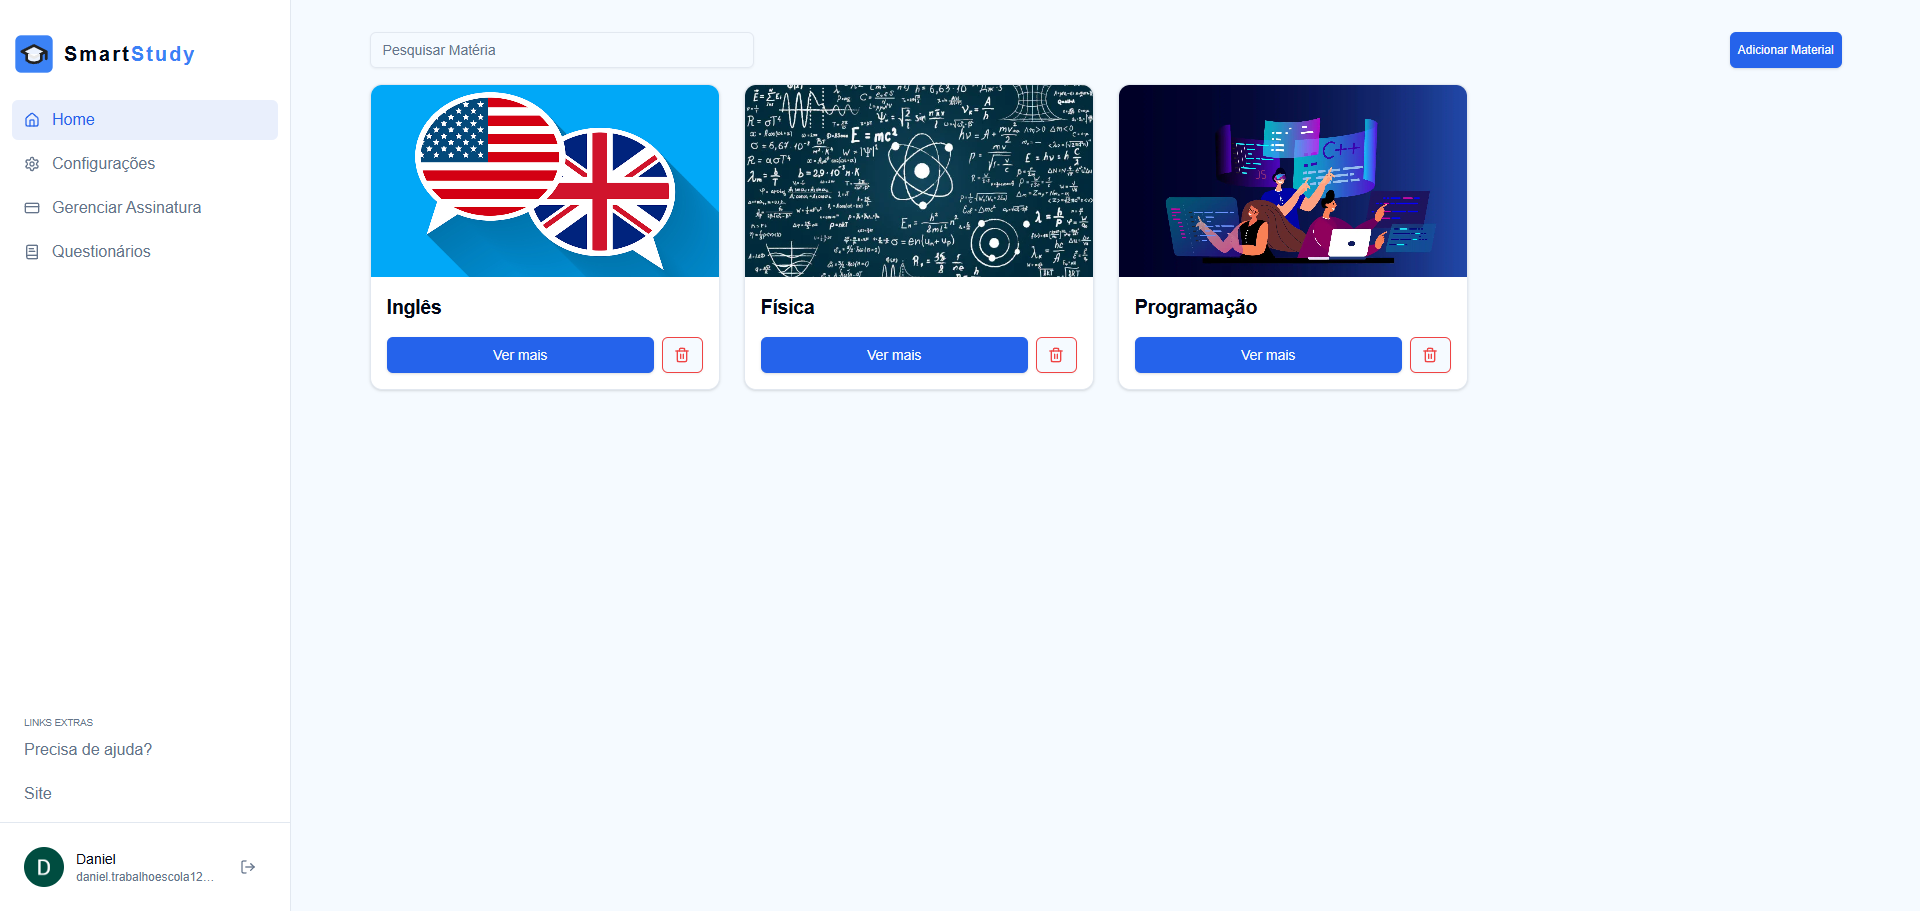
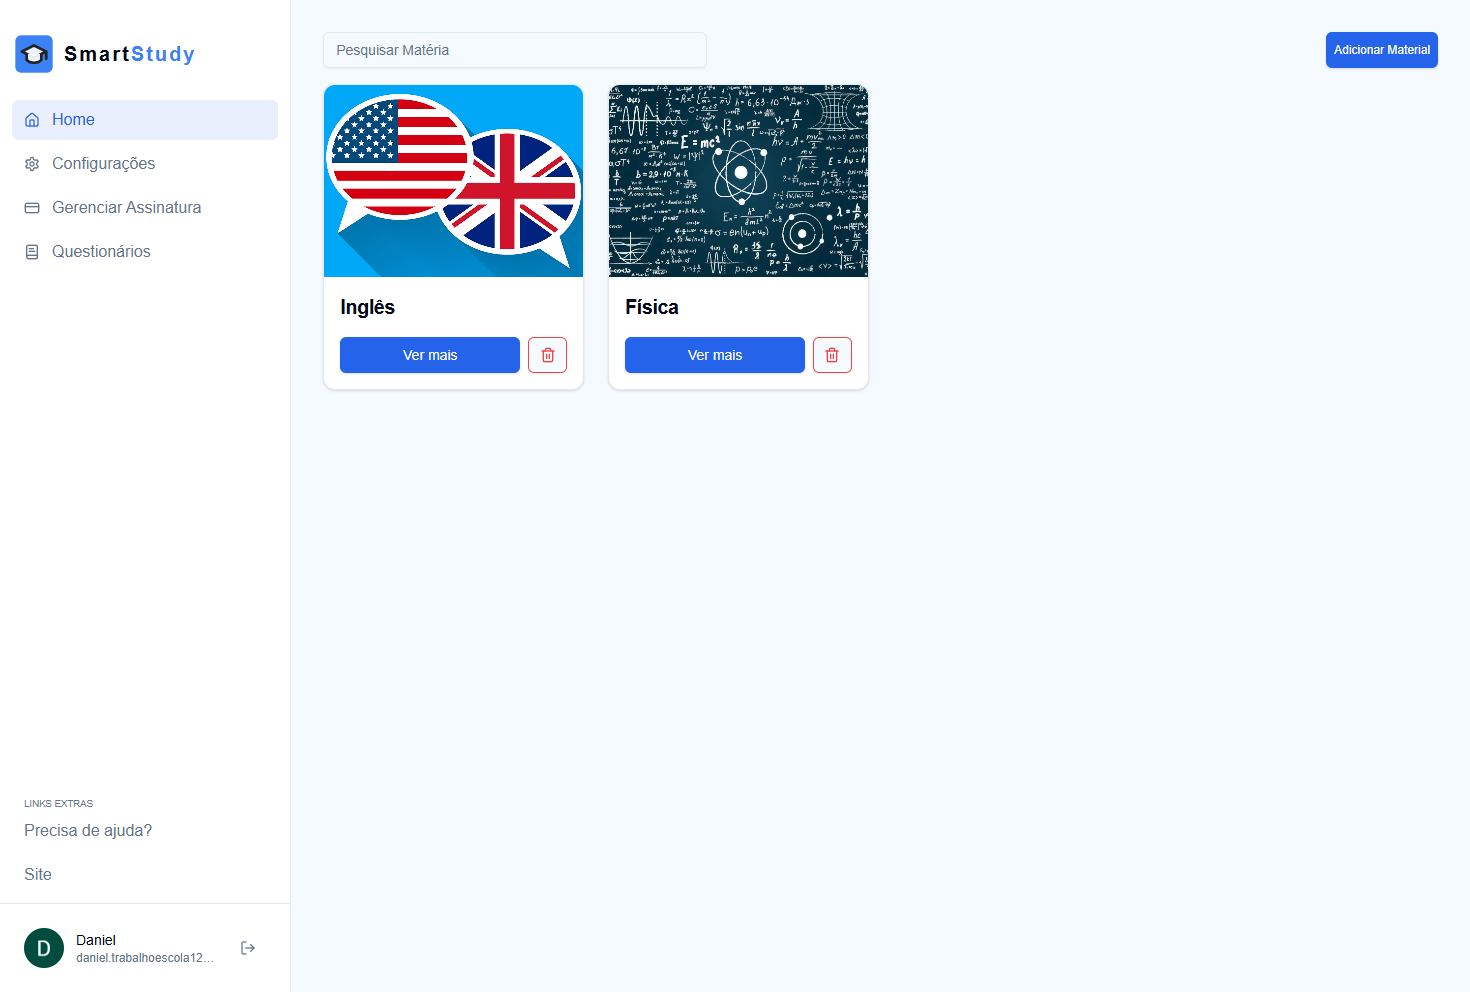
fix: ajustes de estilo para mobile

diff --git a/src/app/page.tsx b/src/app/page.tsx
@@ -17,8 +17,8 @@ export default async function Home() {
     <div className="relative h-fit">
       <ParallaxBackground dotColor="#d1d1d1" dotSize={2} dotCount={400} speed={0.15} />
       <Header/>
-      <Blur className="fixed top-0 left-0 w-72 opacity-15 blur-2xl z-20" />
-      <Blur className="fixed bottom-0 right-0 w-72 opacity-15 blur-2xl z-20" />
+      <Blur className="fixed top-0 left-0 opacity-15 blur-2xl z-20 w-36 md:w-72" />
+      <Blur className="fixed bottom-0 right-0 opacity-15 blur-2xl z-20 w-36 md:w-72" />
       <main className="container mx-auto mt-24 flex flex-col">
         <section id="hero" className="flex flex-col items-center w-full text-center p-4 scroll-mt-24 z-30">
           {/* Badge de destaque */}
@@ -36,7 +36,7 @@ export default async function Home() {
           </h1>
 
           {/* Subtítulo */}
-          <p className="text-xl md:text-2xl text-gray-600 max-w-3xl mb-12 leading-relaxed">
+          <p className="text-lg md:text-2xl text-gray-600 max-w-3xl mb-12 leading-relaxed">
             Crie flashcards inteligentes, questionários adaptativos e acompanhe seu progresso 
             com ferramentas avançadas de IA. Estude de forma mais eficiente e inteligente.
           </p>
@@ -75,7 +75,7 @@ export default async function Home() {
               {/* Espaço para a imagem */}
               <div className="relative flex items-center w-full mx-auto justify-center bg-white rounded-sm shadow-2xl overflow-hidden border border-gray-100 p-1">
                 <ShineBorder shineColor={["#3b82f6", "#3b82f6", "#3b82f6"]} />
-                <Image src="/app-print.png" alt="SmartStudy" width={1920} height={1080} className="rounded-[6px]" />
+                <Image src="/app-print.png" alt="SmartStudy" width={1470} height={992} className="rounded-[6px]" />
               </div>
             </div>
           </div>

diff --git a/src/app/_components/reviews-landing-page.tsx b/src/app/_components/reviews-landing-page.tsx
@@ -57,11 +57,7 @@ const ReviewCard = ({
   return (
     <figure
       className={cn(
-        "relative h-full w-64 cursor-pointer overflow-hidden rounded-xl border p-4",
-        // light styles
-        "border-gray-950/[.1] bg-gray-950/[.01] hover:bg-gray-950/[.05]",
-        // dark styles
-        "dark:border-gray-50/[.1] dark:bg-gray-50/[.10] dark:hover:bg-gray-50/[.15]",
+        "relative h-full w-64 cursor-pointer overflow-hidden rounded-xl border p-4 bg-white",
       )}
     >
       <div className="flex flex-row items-center gap-2">
